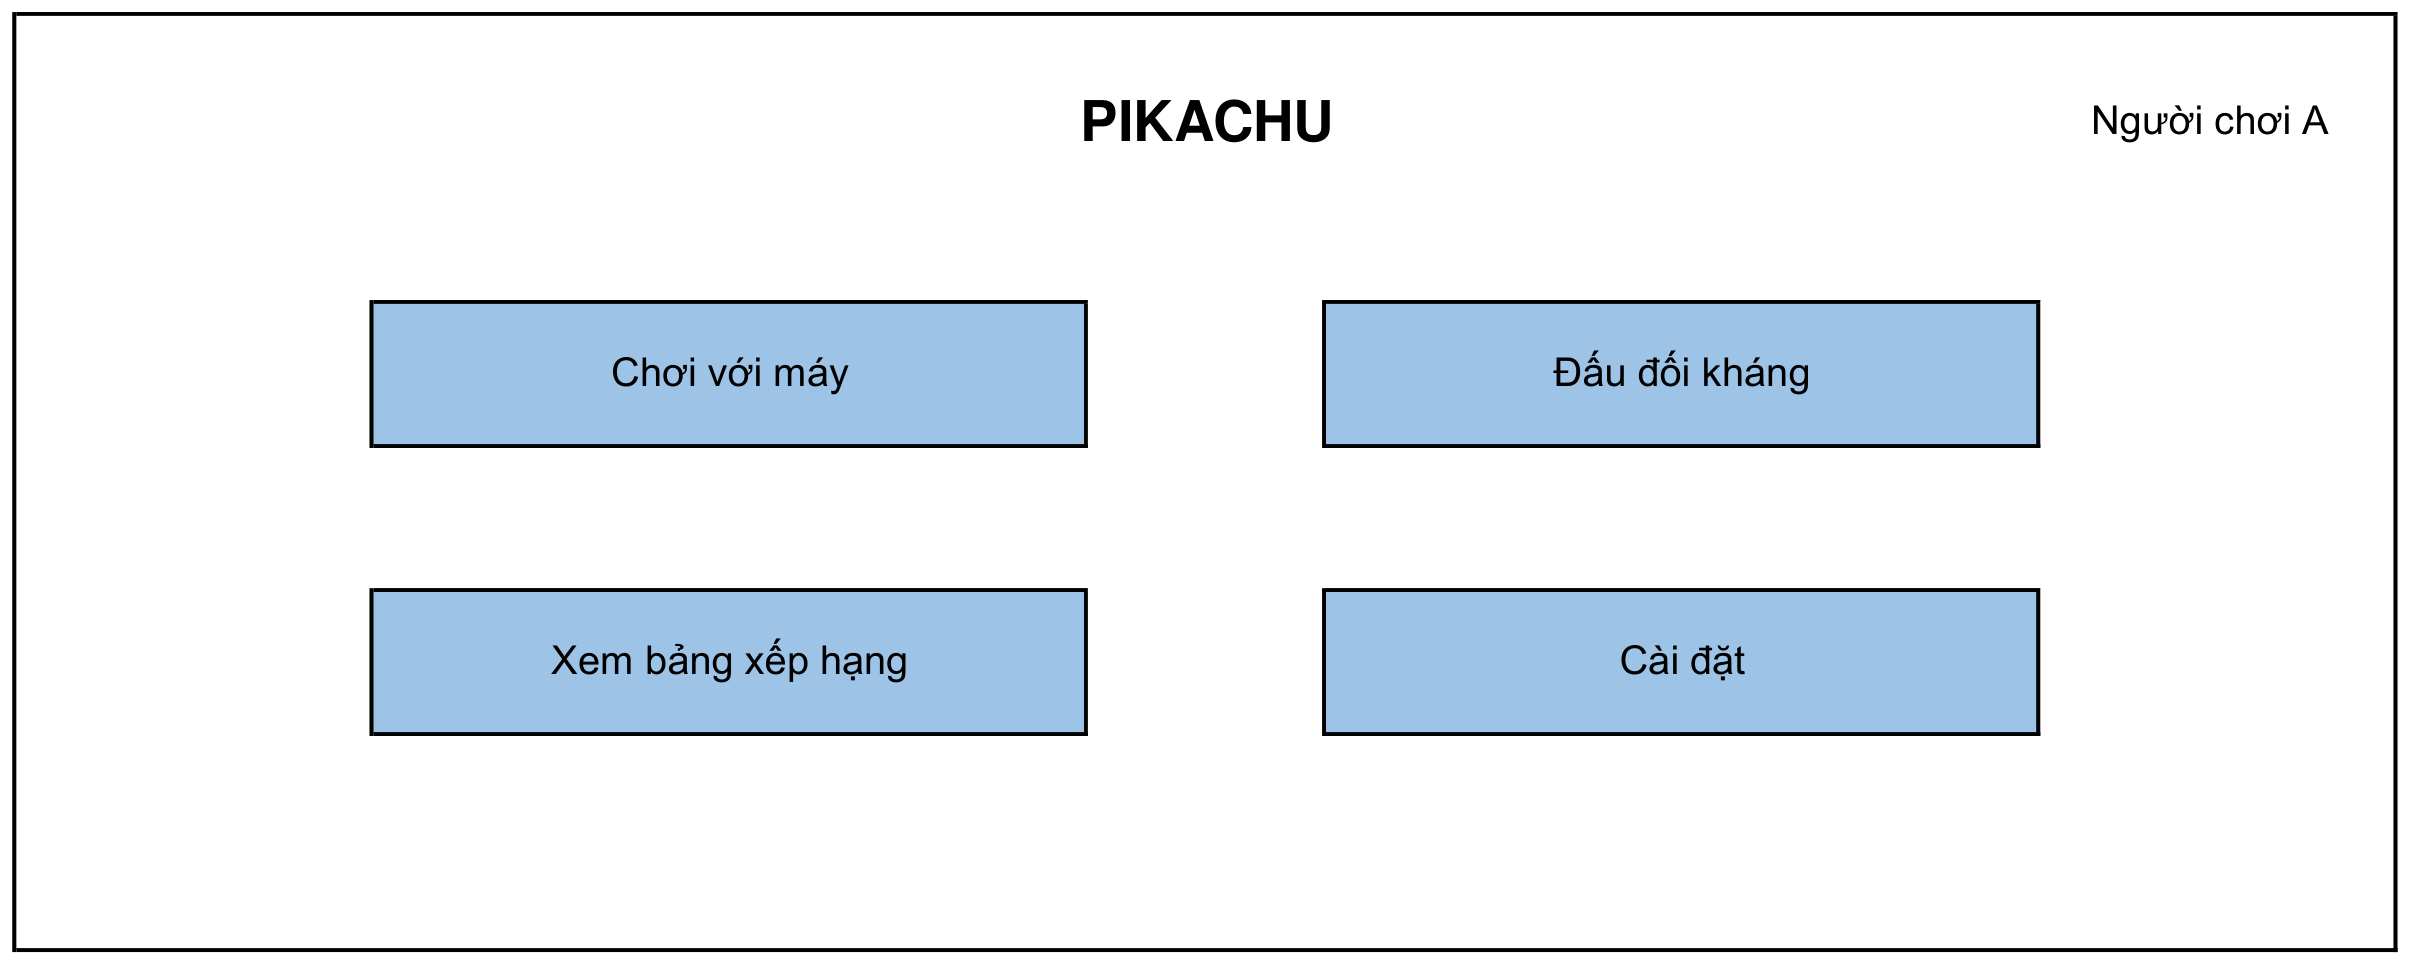
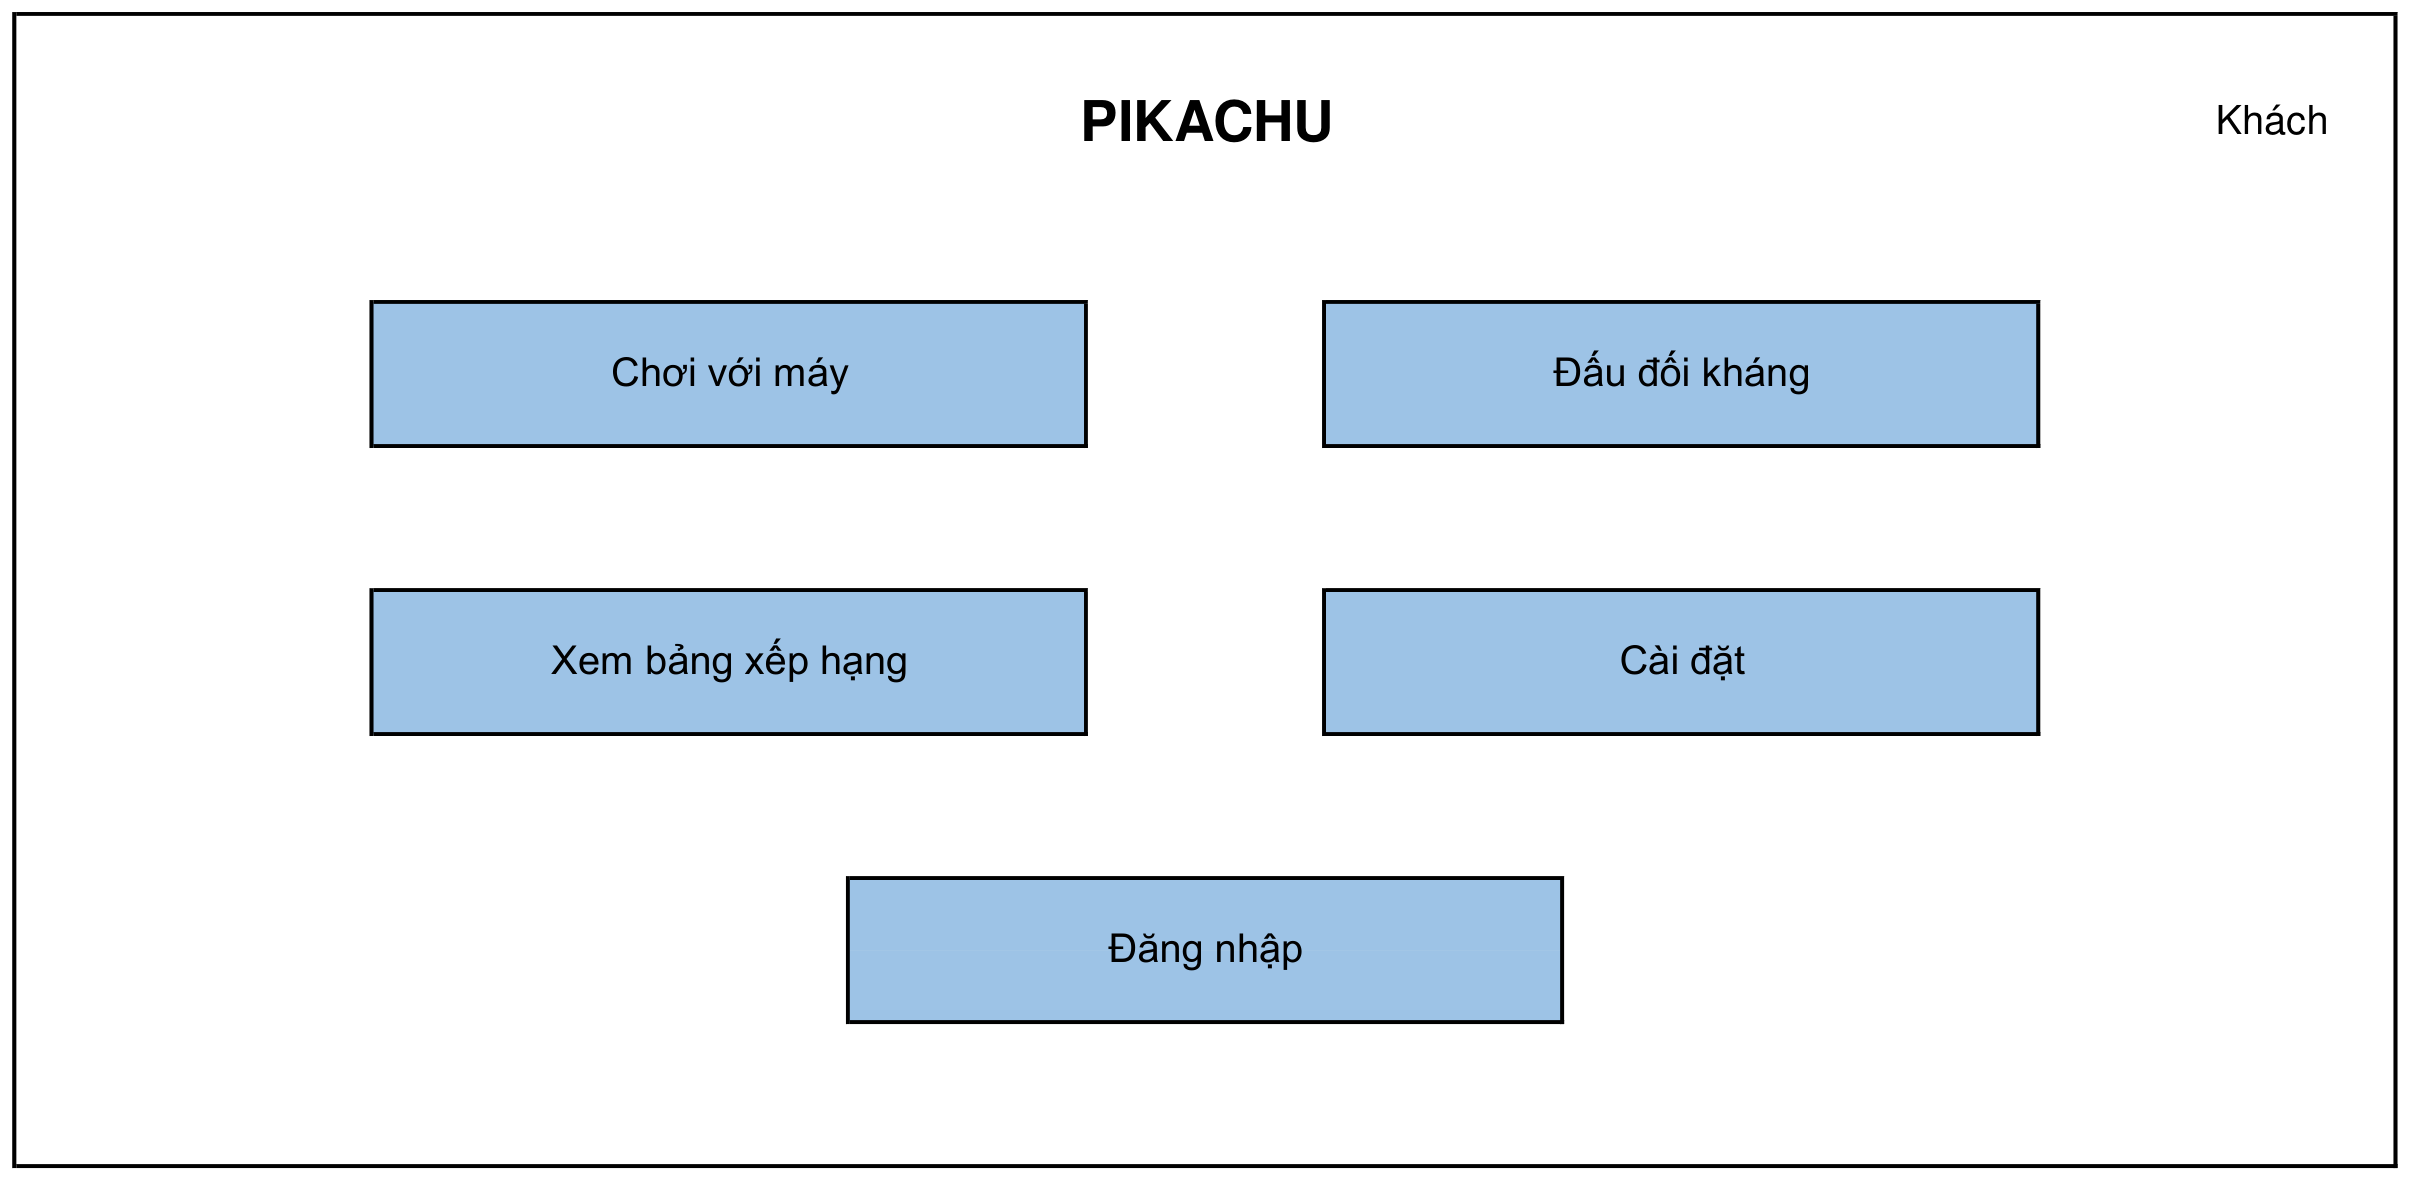
docs(ui): show the guest main screen with a login button

diff --git a/docs/ui/build_ui.py b/docs/ui/build_ui.py
@@ -106,13 +106,14 @@ def build():
     wb = Workbook()
     wb.remove(wb.active)
 
-    # Hình 3.5: giao diện chính (khách thấy "Khách" thay cho tên người chơi)
-    s = Screen(wb, "ui-main", 14)
-    s.frame(2, 2, 14, 41, "PIKACHU", user="Người chơi A")
+    # Hình 3.5: giao diện chính khi chưa đăng nhập; nút Đăng nhập ở dưới, căn giữa (yêu cầu của Dev 1)
+    s = Screen(wb, "ui-main", 17)
+    s.frame(2, 2, 17, 41, "PIKACHU", user="Khách")
     s.button(6, 8, 19, "Chơi với máy")
     s.button(6, 24, 35, "Đấu đối kháng")
     s.button(10, 8, 19, "Xem bảng xếp hạng")
     s.button(10, 24, 35, "Cài đặt")
+    s.button(14, 16, 27, "Đăng nhập")
 
     # Hình 3.6: bảng xếp hạng, đang ở trang có dòng của người chơi (sau khi bấm Vị trí của tôi)
     s = Screen(wb, "ui-ranking", 15)
